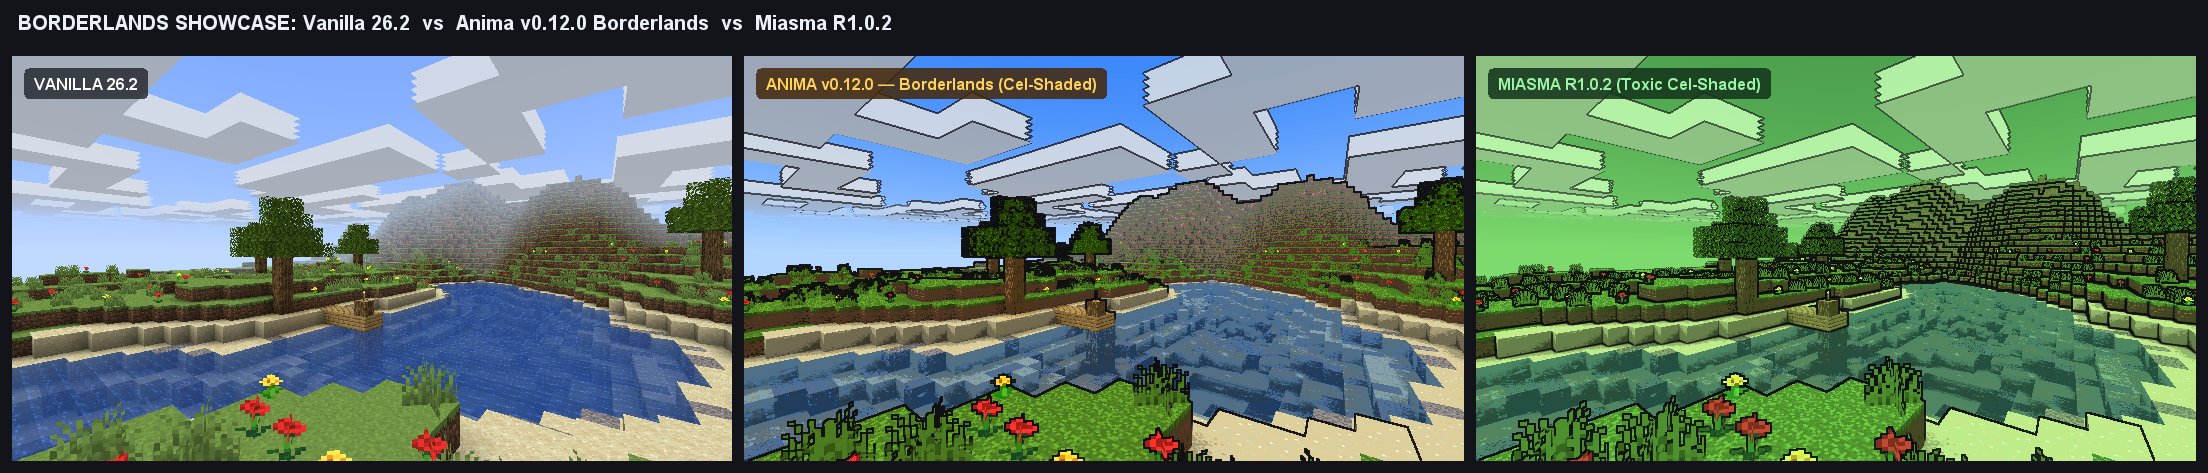
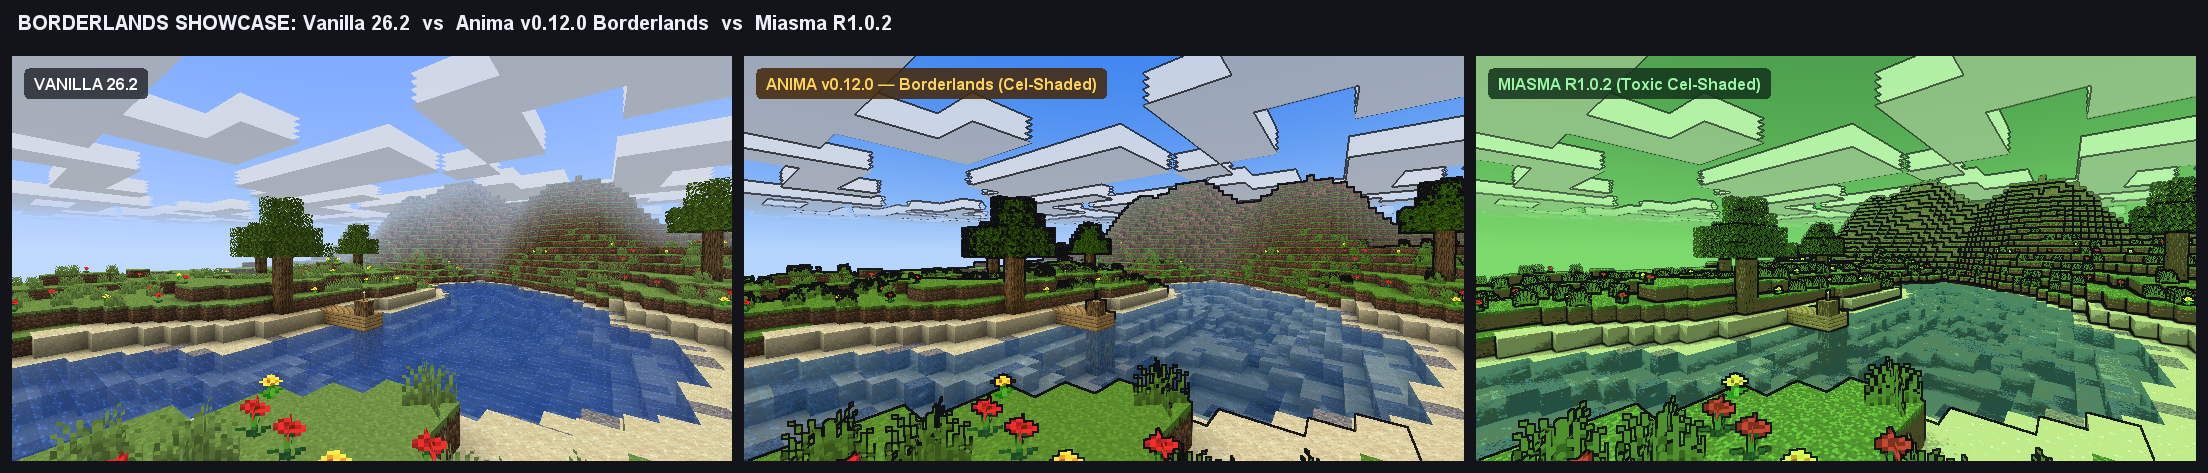
feat(v0.16.0): add decorated Borderlands nameplate above HUD, move & stylize ECHO-Comms chat to bottom-right, and soften Borderlands texture saturation/cel-banding

diff --git a/Anima-mod/src/client/java/dev/anima/client/mixin/ChatComponentMixin.java b/Anima-mod/src/client/java/dev/anima/client/mixin/ChatComponentMixin.java
@@ -1,0 +1,125 @@
+package dev.anima.client.mixin;
+
+import dev.anima.AnimaMod;
+import net.minecraft.client.Minecraft;
+import net.minecraft.client.gui.Font;
+import net.minecraft.client.gui.GuiGraphicsExtractor;
+import net.minecraft.client.gui.components.ChatComponent;
+import net.minecraft.client.multiplayer.chat.GuiMessage;
+import org.spongepowered.asm.mixin.Final;
+import org.spongepowered.asm.mixin.Mixin;
+import org.spongepowered.asm.mixin.Shadow;
+import org.spongepowered.asm.mixin.Unique;
+import org.spongepowered.asm.mixin.injection.At;
+import org.spongepowered.asm.mixin.injection.Inject;
+import org.spongepowered.asm.mixin.injection.callback.CallbackInfo;
+
+import java.util.List;
+
+/**
+ * Moves Minecraft chat to the bottom-right and wraps it in a stylized Borderlands ECHO-Comms
+ * frame whenever Anima's Borderlands mode is active.
+ */
+@Mixin(ChatComponent.class)
+public abstract class ChatComponentMixin {
+
+    @Shadow @Final private Minecraft minecraft;
+    @Shadow @Final private List<GuiMessage.Line> trimmedMessages;
+    @Shadow private int chatScrollbarPos;
+
+    @Unique private boolean anima$chatShifted = false;
+
+    @Inject(
+            method = "extractRenderState(Lnet/minecraft/client/gui/GuiGraphicsExtractor;Lnet/minecraft/client/gui/Font;IIILnet/minecraft/client/gui/components/ChatComponent$DisplayMode;Z)V",
+            at = @At("HEAD"),
+            require = 0
+    )
+    private void anima$beginBorderlandsChat(
+            GuiGraphicsExtractor g,
+            Font font,
+            int ticks,
+            int mouseX,
+            int mouseY,
+            ChatComponent.DisplayMode displayMode,
+            boolean isFocused,
+            CallbackInfo ci) {
+        this.anima$chatShifted = false;
+        if (!AnimaMod.config().isBorderlands()) {
+            return;
+        }
+
+        double scale = this.minecraft.options.chatScale().get();
+        int rawWidth = ChatComponent.getWidth(this.minecraft.options.chatWidth().get());
+        int scaledWidth = Math.max(80, (int) Math.ceil(rawWidth * scale));
+        int shiftX = Math.max(0, g.guiWidth() - scaledWidth - 14);
+
+        // Count currently visible lines to size the stylized Borderlands ECHO-Comms frame cleanly
+        int lineHeight = (int) Math.round(9.0 * (this.minecraft.options.chatLineSpacing().get() + 1.0));
+        int maxHeight = ChatComponent.getHeight(isFocused
+                ? this.minecraft.options.chatHeightFocused().get()
+                : this.minecraft.options.chatHeightUnfocused().get());
+        int maxLines = Math.max(1, maxHeight / Math.max(1, lineHeight));
+
+        int visible = 0;
+        int total = this.trimmedMessages.size();
+        for (int i = 0; i + this.chatScrollbarPos < total && i < maxLines; i++) {
+            GuiMessage.Line line = this.trimmedMessages.get(i + this.chatScrollbarPos);
+            int age = ticks - line.addedTime();
+            if (isFocused || age < 200) {
+                visible++;
+            }
+        }
+
+        if (visible > 0 || isFocused) {
+            int boxLines = Math.max(visible, isFocused ? 2 : 0);
+            int boxH = (int) Math.ceil(boxLines * lineHeight * scale) + 10;
+            int boxBottom = g.guiHeight() - 36;
+            int boxTop = Math.max(16, boxBottom - boxH);
+            int boxLeft = shiftX - 4;
+            int boxRight = Math.min(g.guiWidth() - 6, shiftX + scaledWidth + 6);
+
+            // Stylized Borderlands ECHO-Comms chat panel (comic ink + slate + steel-cyan border + gold accent)
+            g.fill(boxLeft - 1, boxTop - 1, boxRight + 1, boxBottom + 1, 0xEC06080D);
+            g.fillGradient(boxLeft, boxTop, boxRight, boxBottom, 0xCC111824, 0xCC0A0F18);
+            g.outline(boxLeft, boxTop, boxRight - boxLeft, boxBottom - boxTop, 0xFF334E68);
+            // Right golden-amber vertical accent bar + top cyan sheen
+            g.fill(boxRight - 2, boxTop + 2, boxRight, boxBottom - 2, 0xFFFBBF24);
+            g.fill(boxLeft + 2, boxTop, boxRight - 4, boxTop + 1, 0x5538BDF8);
+            // Compact "ECHO COMMS" header tag on top-right
+            String tag = "ECHO // COMMS";
+            int tw = font.width(tag);
+            int tagLeft = boxRight - tw - 10;
+            int tagTop = boxTop - 10;
+            if (tagTop >= 4) {
+                g.fill(tagLeft - 1, tagTop - 1, boxRight + 1, boxTop + 1, 0xEC06080D);
+                g.fill(tagLeft, tagTop, boxRight, boxTop, 0xE2101824);
+                g.fill(boxRight - 2, tagTop, boxRight, boxTop, 0xFFFBBF24);
+                g.text(font, tag, tagLeft + 4, tagTop + 1, 0xFF94C5EB, false);
+            }
+        }
+
+        g.pose().pushMatrix();
+        g.pose().translate((float) shiftX, 0.0f);
+        this.anima$chatShifted = true;
+    }
+
+    @Inject(
+            method = "extractRenderState(Lnet/minecraft/client/gui/GuiGraphicsExtractor;Lnet/minecraft/client/gui/Font;IIILnet/minecraft/client/gui/components/ChatComponent$DisplayMode;Z)V",
+            at = @At("RETURN"),
+            require = 0
+    )
+    private void anima$endBorderlandsChat(
+            GuiGraphicsExtractor g,
+            Font font,
+            int ticks,
+            int mouseX,
+            int mouseY,
+            ChatComponent.DisplayMode displayMode,
+            boolean isFocused,
+            CallbackInfo ci) {
+        if (this.anima$chatShifted) {
+            g.pose().popMatrix();
+            this.anima$chatShifted = false;
+        }
+    }
+}

diff --git a/Anima-mod/src/client/java/dev/anima/client/ui/BorderlandsHudRenderer.java b/Anima-mod/src/client/java/dev/anima/client/ui/BorderlandsHudRenderer.java
@@ -68,15 +68,24 @@ public final class BorderlandsHudRenderer {
         int panelH = 44;
         float slant = -0.22f; // Subtle Borderlands forward lean
 
-        // 1. Underwater Respiration Bar (floats cleanly right above the panel when underwater or recovering air)
+        // 1. Decorated Borderlands Nameplate Banner above the bottom-left HUD
+        String playerName = player.getName().getString();
+        int nameTextW = font.width(playerName);
+        int tagW = Math.max(76, nameTextW + 24);
+        int tagH = 13;
+        int tagX = panelX + 6;
+        int tagY = panelY - tagH - 3;
+        drawNameplateBanner(g, font, tagX, tagY, tagW, tagH, slant, playerName);
+
+        // 2. Underwater Respiration Bar (floats cleanly right above the nameplate when underwater or recovering air)
         int maxAir = Math.max(1, player.getMaxAirSupply());
         int air = Mth.clamp(player.getAirSupply(), 0, maxAir);
         boolean showAir = player.isEyeInFluid(FluidTags.WATER) || air < maxAir;
         if (showAir) {
-            renderAirBubblesPanel(g, panelX + 8, panelY - 14, 134, air, maxAir, slant);
+            renderAirBubblesPanel(g, panelX + 8, tagY - 14, 134, air, maxAir, slant);
         }
 
-        // 2. Main Slanted Backplate (outer dark comic ink + dark slate body + steel-cyan trim)
+        // 3. Main Slanted Backplate (outer dark comic ink + dark slate body + steel-cyan trim)
         drawSlantedRect(g, panelX - 1, panelY - 1, panelW + 2, panelH + 2, slant, COL_INK);
         drawSlantedRect(g, panelX, panelY, panelW, panelH, slant, COL_PANEL_BG);
         drawSlantedBorderTopBottom(g, panelX, panelY, panelW, panelH, slant, COL_PANEL_EDGE);
@@ -129,12 +138,26 @@ public final class BorderlandsHudRenderer {
             drawSlantedRect(g, barX - 1, satY, satFillW, 2, slant, COL_SAT_FILL);
         }
 
-        // Subtle player name footer on bottom edge (like Borderlands class subtitle)
-        String subtitle = player.getName().getString();
-        g.text(font, subtitle, panelX + 14, panelY + panelH + 2, 0xFFD0DCE8, true);
-
-        // 3. Tilted Chamfered Diamond EXP Level Badge (drawn on top so it overlaps the left edge of the panel!)
+        // 4. Tilted Chamfered Diamond EXP Level Badge (drawn on top so it overlaps the left edge of the panel!)
         drawExpDiamondBadge(g, font, dCx, dCy, diamondRadius, player.experienceLevel, player.experienceProgress);
+    }
+
+    /**
+     * Draws the decorated Borderlands nameplate banner sitting directly above the bottom-left status HUD.
+     */
+    private static void drawNameplateBanner(GuiGraphicsExtractor g, Font font, int x, int y, int w, int h, float slant, String name) {
+        // Outer dark comic ink silhouette
+        drawSlantedRect(g, x - 1, y - 1, w + 2, h + 2, slant, COL_INK);
+        // Dark metallic slate body
+        drawSlantedRect(g, x, y, w, h, slant, 0xE2101824);
+        // Top cyan highlight + bottom steel trim + right bevel edge
+        drawSlantedBorderTopBottom(g, x, y, w, h, slant, COL_PANEL_EDGE);
+        g.fill(x + 4, y, x + w - 2, y + 1, 0x6638BDF8);
+        // Signature Borderlands golden-amber left chevron accent bar + mini diamond pip
+        drawSlantedRect(g, x, y, 4, h, slant, COL_GOLD);
+        g.fill(x + 7, y + h / 2 - 1, x + 10, y + h / 2 + 2, COL_GOLD);
+        // Crisp bold-look player name
+        g.text(font, name, x + 14, y + 3, 0xFFF8FAFC, true);
     }
 
     /**
